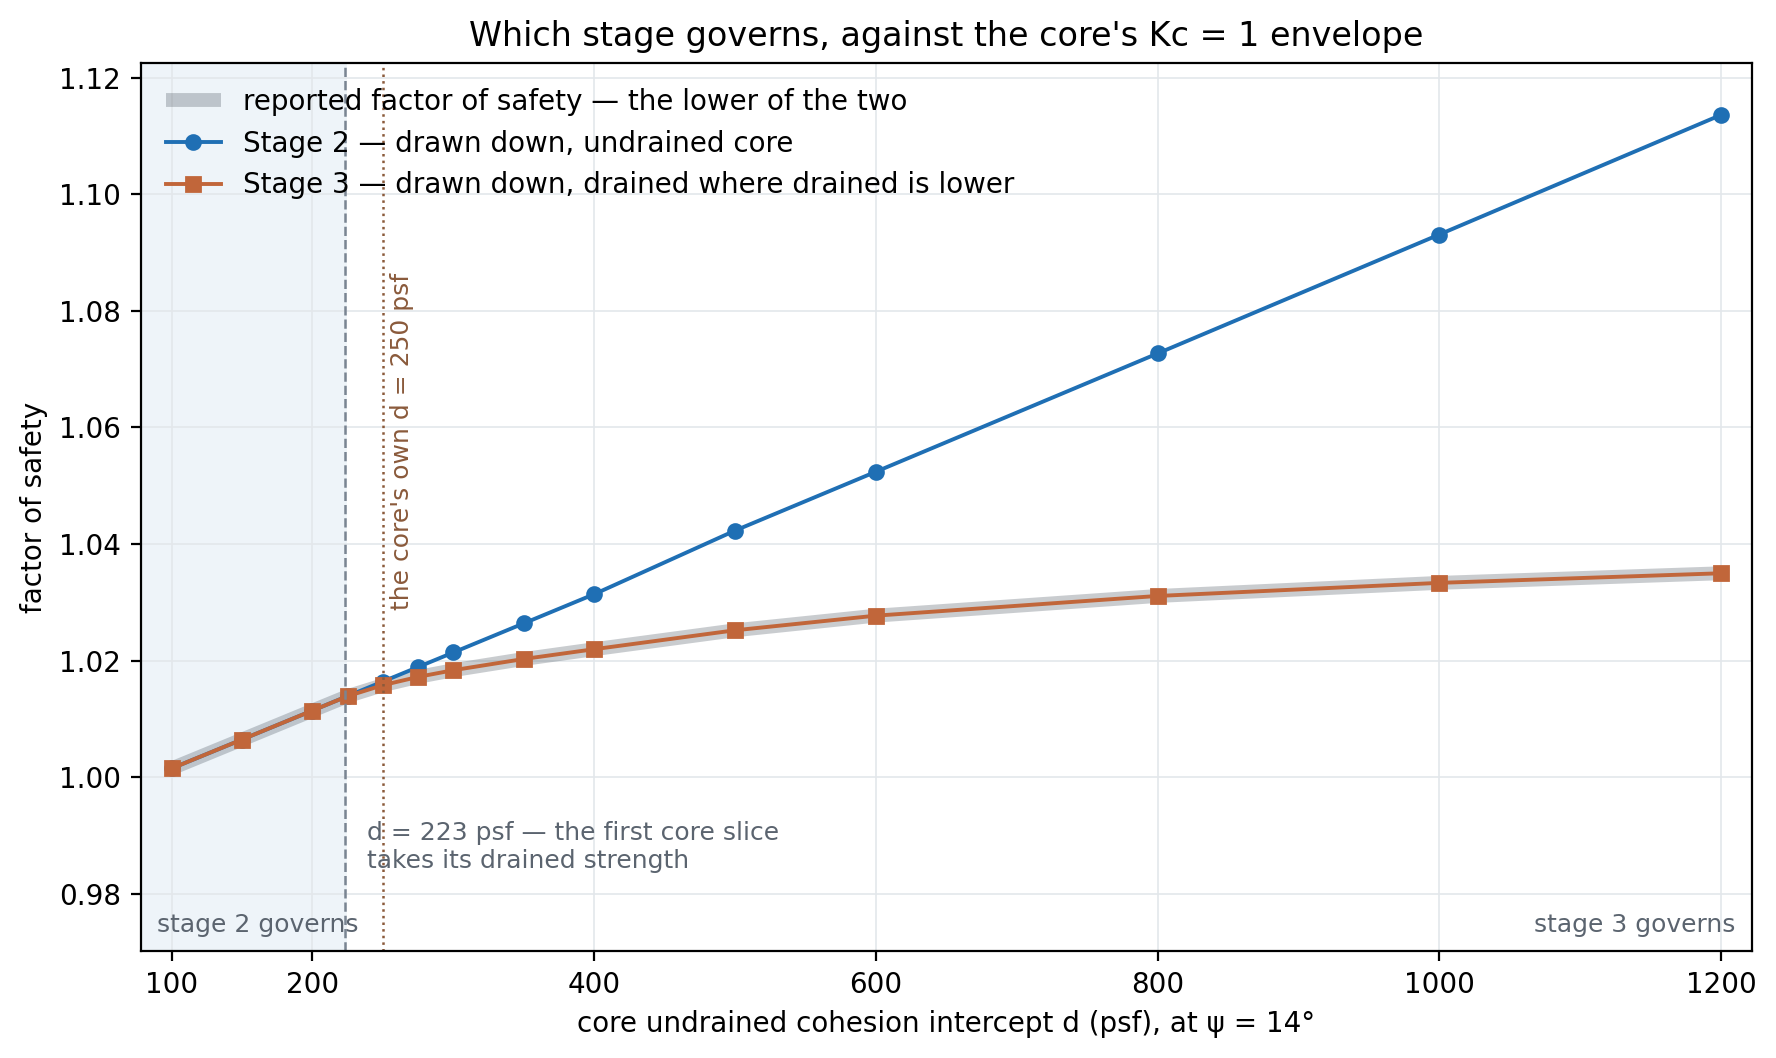
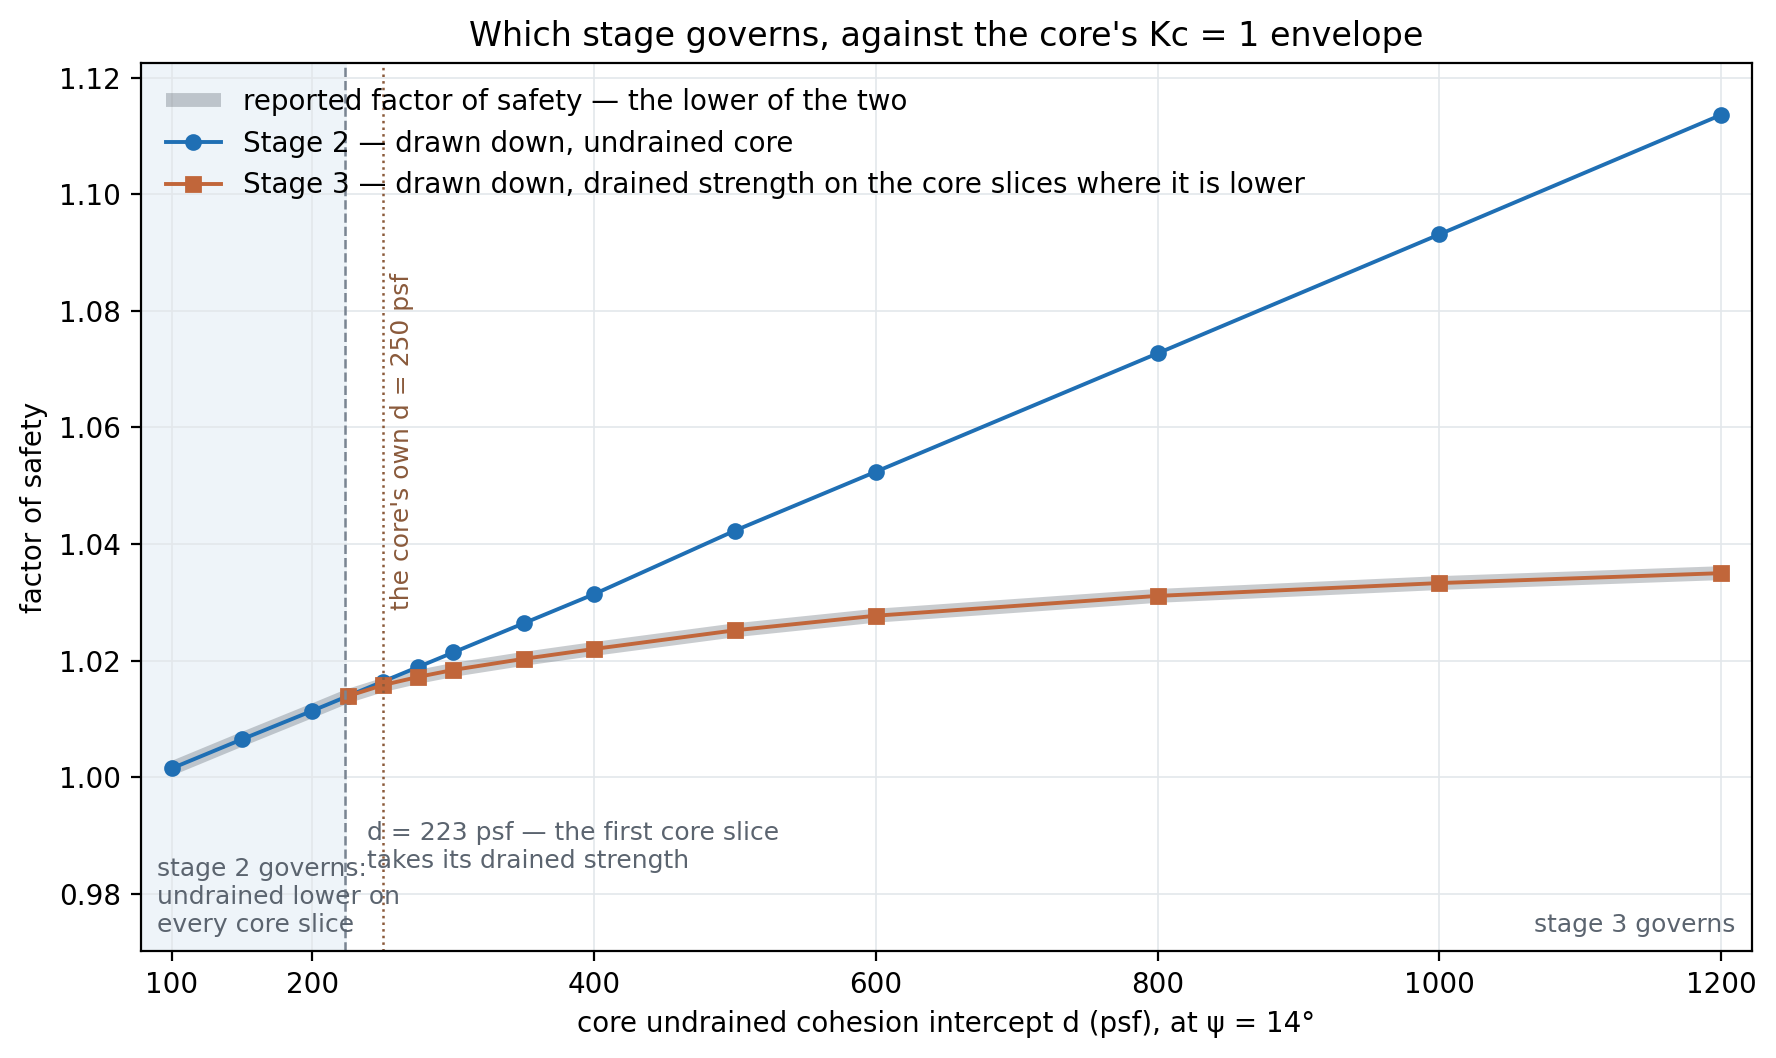
docs(tutorials): COMBO-2 — the sweep figure draws stage 3 only where it ran; left of the handover only stage 2 exists
Claude-Session: https://claude.ai/code/session_01XjjT2aBxw8gY7EFdpoUcpj

diff --git a/tools/make_tutorial_figures.py b/tools/make_tutorial_figures.py
@@ -5970,8 +5970,15 @@ def _combo02_sweep_figure(rows, crossing, file_d):
             label="reported factor of safety — the lower of the two")
     ax.plot(ds, [r["stage2_FS"] for r in rows], "o-", color="#1f6fb4", lw=1.4,
             ms=5, label="Stage 2 — drawn down, undrained core")
-    ax.plot(ds, [r["stage3_FS"] for r in rows], "s-", color="#c1663a", lw=1.4,
-            ms=5, label="Stage 3 — drawn down, drained where drained is lower")
+    # Stage 3 is drawn only where it ran. Left of the handover no core slice is
+    # weaker drained than undrained, the stage is not run, and the engine reports
+    # stage 2 — drawing a stage-3 marker there would say the drained strength was
+    # the lower one on every slice, which is the opposite of what happened.
+    ran = [r for r in rows if r["n_drained"] > 0]
+    ax.plot([r["d"] for r in ran], [r["stage3_FS"] for r in ran], "s-",
+            color="#c1663a", lw=1.4, ms=5,
+            label="Stage 3 — drawn down, drained strength on the core slices "
+                  "where it is lower")
     ax.axvline(crossing, color="#7a8592", lw=0.9, ls="--")
     ax.axvline(file_d, color="#8a5a3b", lw=0.9, ls=":")
     x0, x1 = ax.get_xlim()
@@ -5979,7 +5986,8 @@ def _combo02_sweep_figure(rows, crossing, file_d):
     # Ticks off the swept values themselves, so the grid follows the sweep
     # wherever it is set rather than a hand-picked list.
     ax.set_xticks(sorted({min(ds), max(ds)} | {d for d in ds if d % 200 == 0}))
-    ax.text(x0 + 0.01 * (x1 - x0), ymin + 0.03 * span, "stage 2 governs",
+    ax.text(x0 + 0.01 * (x1 - x0), ymin + 0.03 * span,
+            "stage 2 governs:\nundrained lower on\nevery core slice",
             ha="left", color="#5b646f", fontsize=9)
     ax.text(x1 - 0.01 * (x1 - x0), ymin + 0.03 * span, "stage 3 governs",
             ha="right", color="#5b646f", fontsize=9)

diff --git a/docs/tutorials/combo02_rapid_drawdown.md b/docs/tutorials/combo02_rapid_drawdown.md
@@ -847,8 +847,8 @@ lower of the two at every value.
 
 **The handover is at d = 223 psf**, 27 psf *below* the value on the file, which is
 why the model as shipped already reports stage 3. Below 223 psf every core slice
-is stronger undrained than drained, stage 3 is not run at all, and the two curves
-are one line. Past the crossover a stronger envelope changes almost nothing — the
+is stronger undrained than drained, so stage 3 is not run and only the stage-2
+curve is drawn. Past the crossover a stronger envelope changes almost nothing — the
 drained strength has become the limit — and a run that reports stage 3 as its
 governing stage is saying the undrained strengths never controlled.
 
